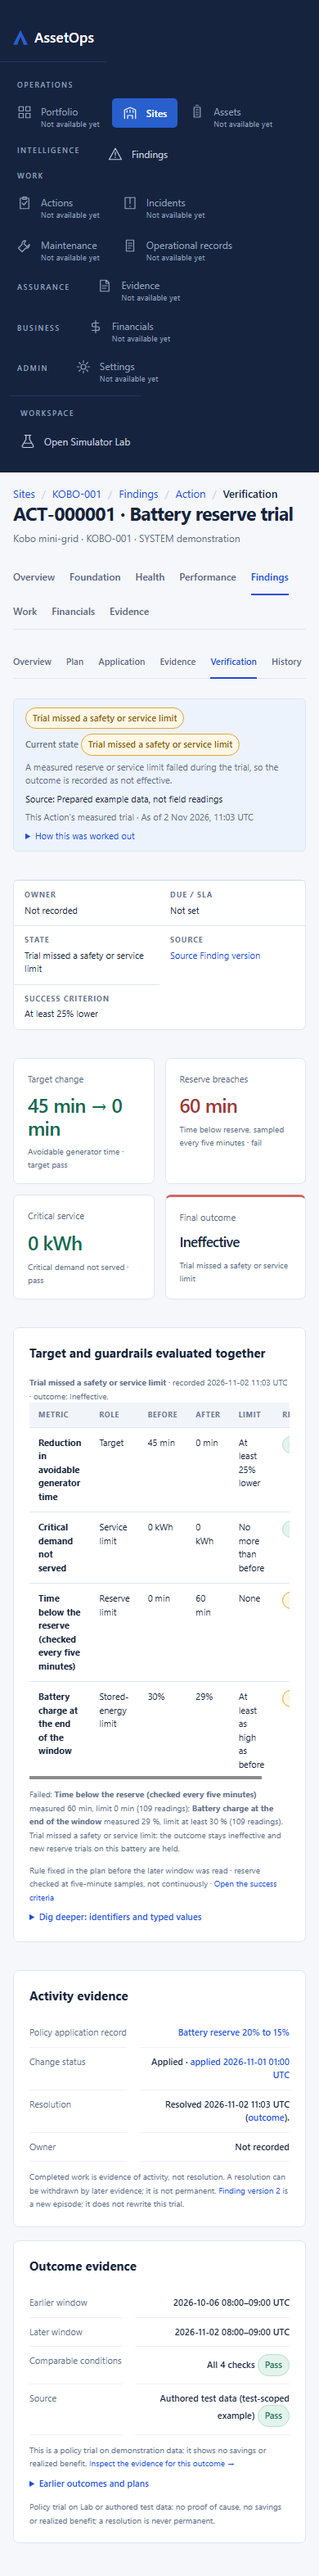
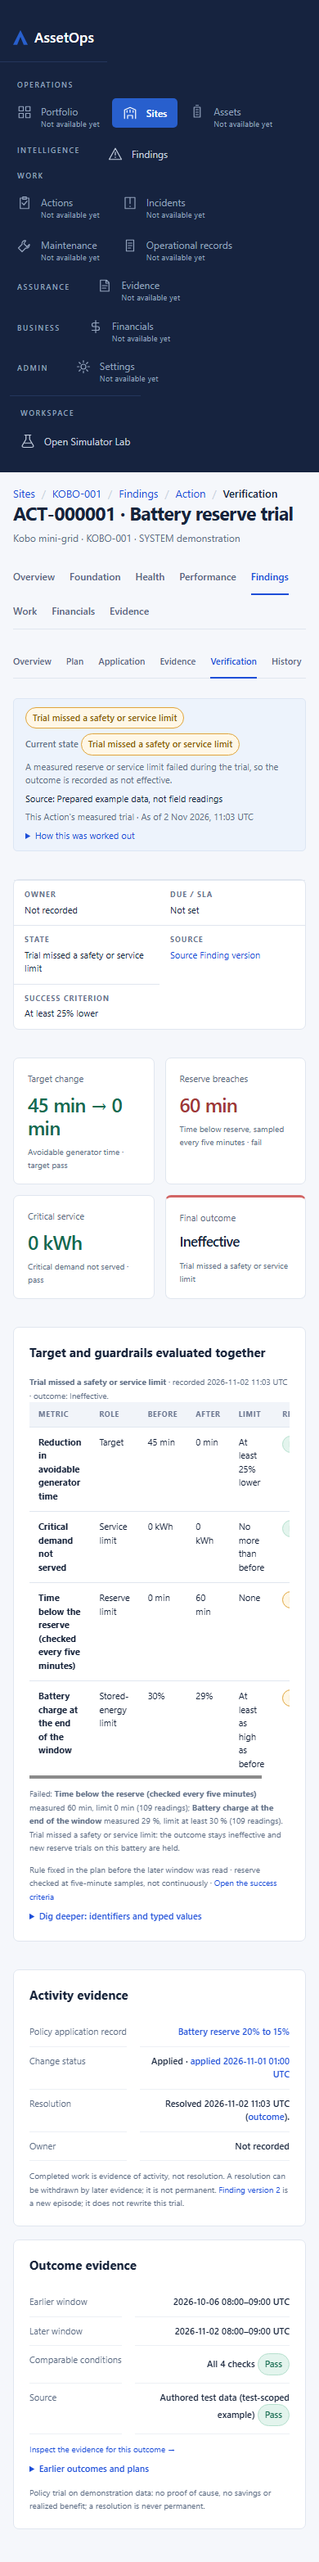
W1-F4 fix round 3: packet section, s602b recapture

diff --git a/.agent/W1-F4-evidence/s602b/index.html b/.agent/W1-F4-evidence/s602b/index.html
@@ -1,65 +1,65 @@
 <!doctype html><meta charset="utf-8"><title>W1 fidelity pairs</title><style>body{font:13px system-ui;margin:16px}.pair{display:grid;grid-template-columns:1fr 1fr;gap:12px;align-items:start}img{width:100%;border:1px solid #ccc}figure{margin:0}</style>
-<p>Revision 2045cfdd · captured 2026-10-17T15:06:42.985Z</p><section><h2>action-plan (pass) · 1440x1000</h2>
+<p>Revision 8d8d921c · captured 2026-10-17T15:54:08.950Z</p><section><h2>action-plan (pass) · 1440x1000</h2>
 <p>App: Success criteria<br>Mock: Success criteria</p>
-<div class="pair"><figure><figcaption>App http://localhost:5830/sites/KOBO-001/actions/0c4bd539-a1ed-42ea-bb0d-ad9b755ffe17/plan</figcaption><img src="action-plan-pass-1440-app.png"></figure>
+<div class="pair"><figure><figcaption>App http://localhost:5830/sites/KOBO-001/actions/b19c1545-aaba-48a8-a685-f2eb2ebea523/plan</figcaption><img src="action-plan-pass-1440-app.png"></figure>
 <figure><figcaption>Mock #/action-plan</figcaption><img src="action-plan-pass-1440-mock.png"></figure></div></section>
 <section><h2>action-plan (pass) · 390x900</h2>
 <p>App: Success criteria<br>Mock: Success criteria</p>
-<div class="pair"><figure><figcaption>App http://localhost:5830/sites/KOBO-001/actions/0c4bd539-a1ed-42ea-bb0d-ad9b755ffe17/plan</figcaption><img src="action-plan-pass-390-app.png"></figure>
+<div class="pair"><figure><figcaption>App http://localhost:5830/sites/KOBO-001/actions/b19c1545-aaba-48a8-a685-f2eb2ebea523/plan</figcaption><img src="action-plan-pass-390-app.png"></figure>
 <figure><figcaption>Mock #/action-plan</figcaption><img src="action-plan-pass-390-mock.png"></figure></div></section>
 <section><h2>action-plan (guardrail) · 1440x1000</h2>
 <p>App: Success criteria<br>Mock: Success criteria</p>
-<div class="pair"><figure><figcaption>App http://localhost:5831/sites/KOBO-001/actions/3477e311-0fe7-463e-9df5-d7e57832e7bb/plan</figcaption><img src="action-plan-guardrail-1440-app.png"></figure>
+<div class="pair"><figure><figcaption>App http://localhost:5831/sites/KOBO-001/actions/82621b3c-7fcc-422f-a5fa-cd4c2f5ba919/plan</figcaption><img src="action-plan-guardrail-1440-app.png"></figure>
 <figure><figcaption>Mock #/action-plan</figcaption><img src="action-plan-guardrail-1440-mock.png"></figure></div></section>
 <section><h2>action-plan (guardrail) · 390x900</h2>
 <p>App: Success criteria<br>Mock: Success criteria</p>
-<div class="pair"><figure><figcaption>App http://localhost:5831/sites/KOBO-001/actions/3477e311-0fe7-463e-9df5-d7e57832e7bb/plan</figcaption><img src="action-plan-guardrail-390-app.png"></figure>
+<div class="pair"><figure><figcaption>App http://localhost:5831/sites/KOBO-001/actions/82621b3c-7fcc-422f-a5fa-cd4c2f5ba919/plan</figcaption><img src="action-plan-guardrail-390-app.png"></figure>
 <figure><figcaption>Mock #/action-plan</figcaption><img src="action-plan-guardrail-390-mock.png"></figure></div></section>
 <section><h2>action-evidence (pass) · 1440x1000</h2>
 <p>App: Evidence requirements<br>Mock: Evidence requirements</p>
-<div class="pair"><figure><figcaption>App http://localhost:5830/sites/KOBO-001/actions/0c4bd539-a1ed-42ea-bb0d-ad9b755ffe17/evidence</figcaption><img src="action-evidence-pass-1440-app.png"></figure>
+<div class="pair"><figure><figcaption>App http://localhost:5830/sites/KOBO-001/actions/b19c1545-aaba-48a8-a685-f2eb2ebea523/evidence</figcaption><img src="action-evidence-pass-1440-app.png"></figure>
 <figure><figcaption>Mock #/action-evidence</figcaption><img src="action-evidence-pass-1440-mock.png"></figure></div></section>
 <section><h2>action-evidence (pass) · 390x900</h2>
 <p>App: Evidence requirements<br>Mock: Evidence requirements</p>
-<div class="pair"><figure><figcaption>App http://localhost:5830/sites/KOBO-001/actions/0c4bd539-a1ed-42ea-bb0d-ad9b755ffe17/evidence</figcaption><img src="action-evidence-pass-390-app.png"></figure>
+<div class="pair"><figure><figcaption>App http://localhost:5830/sites/KOBO-001/actions/b19c1545-aaba-48a8-a685-f2eb2ebea523/evidence</figcaption><img src="action-evidence-pass-390-app.png"></figure>
 <figure><figcaption>Mock #/action-evidence</figcaption><img src="action-evidence-pass-390-mock.png"></figure></div></section>
 <section><h2>action-evidence (guardrail) · 1440x1000</h2>
 <p>App: Evidence requirements<br>Mock: Evidence requirements</p>
-<div class="pair"><figure><figcaption>App http://localhost:5831/sites/KOBO-001/actions/3477e311-0fe7-463e-9df5-d7e57832e7bb/evidence</figcaption><img src="action-evidence-guardrail-1440-app.png"></figure>
+<div class="pair"><figure><figcaption>App http://localhost:5831/sites/KOBO-001/actions/82621b3c-7fcc-422f-a5fa-cd4c2f5ba919/evidence</figcaption><img src="action-evidence-guardrail-1440-app.png"></figure>
 <figure><figcaption>Mock #/action-evidence</figcaption><img src="action-evidence-guardrail-1440-mock.png"></figure></div></section>
 <section><h2>action-evidence (guardrail) · 390x900</h2>
 <p>App: Evidence requirements<br>Mock: Evidence requirements</p>
-<div class="pair"><figure><figcaption>App http://localhost:5831/sites/KOBO-001/actions/3477e311-0fe7-463e-9df5-d7e57832e7bb/evidence</figcaption><img src="action-evidence-guardrail-390-app.png"></figure>
+<div class="pair"><figure><figcaption>App http://localhost:5831/sites/KOBO-001/actions/82621b3c-7fcc-422f-a5fa-cd4c2f5ba919/evidence</figcaption><img src="action-evidence-guardrail-390-app.png"></figure>
 <figure><figcaption>Mock #/action-evidence</figcaption><img src="action-evidence-guardrail-390-mock.png"></figure></div></section>
 <section><h2>verification (pass) · 1440x1000</h2>
 <p>App: Target and guardrails evaluated together | Activity evidence | Outcome evidence<br>Mock: Target and guardrails evaluated together | Activity evidence | Outcome evidence</p>
-<div class="pair"><figure><figcaption>App http://localhost:5830/sites/KOBO-001/actions/0c4bd539-a1ed-42ea-bb0d-ad9b755ffe17/verification</figcaption><img src="verification-pass-1440-app.png"></figure>
+<div class="pair"><figure><figcaption>App http://localhost:5830/sites/KOBO-001/actions/b19c1545-aaba-48a8-a685-f2eb2ebea523/verification</figcaption><img src="verification-pass-1440-app.png"></figure>
 <figure><figcaption>Mock #/verification</figcaption><img src="verification-pass-1440-mock.png"></figure></div></section>
 <section><h2>verification (pass) · 390x900</h2>
 <p>App: Target and guardrails evaluated together | Activity evidence | Outcome evidence<br>Mock: Target and guardrails evaluated together | Activity evidence | Outcome evidence</p>
-<div class="pair"><figure><figcaption>App http://localhost:5830/sites/KOBO-001/actions/0c4bd539-a1ed-42ea-bb0d-ad9b755ffe17/verification</figcaption><img src="verification-pass-390-app.png"></figure>
+<div class="pair"><figure><figcaption>App http://localhost:5830/sites/KOBO-001/actions/b19c1545-aaba-48a8-a685-f2eb2ebea523/verification</figcaption><img src="verification-pass-390-app.png"></figure>
 <figure><figcaption>Mock #/verification</figcaption><img src="verification-pass-390-mock.png"></figure></div></section>
 <section><h2>verification (historical) · 1440x1000</h2>
 <p>App: Target and guardrails evaluated together | Activity evidence | Outcome evidence<br>Mock: Target and guardrails evaluated together | Activity evidence | Outcome evidence</p>
-<div class="pair"><figure><figcaption>App http://localhost:5830/sites/KOBO-001/actions/0c4bd539-a1ed-42ea-bb0d-ad9b755ffe17/verification?outcome_id=869ee819-7507-41f6-b7f9-49187226ea65</figcaption><img src="verification-historical-1440-app.png"></figure>
+<div class="pair"><figure><figcaption>App http://localhost:5830/sites/KOBO-001/actions/b19c1545-aaba-48a8-a685-f2eb2ebea523/verification?outcome_id=d6b7fd34-d5d7-4105-9f9f-9f4c54832448</figcaption><img src="verification-historical-1440-app.png"></figure>
 <figure><figcaption>Mock #/verification</figcaption><img src="verification-historical-1440-mock.png"></figure></div></section>
 <section><h2>verification (historical) · 390x900</h2>
 <p>App: Target and guardrails evaluated together | Activity evidence | Outcome evidence<br>Mock: Target and guardrails evaluated together | Activity evidence | Outcome evidence</p>
-<div class="pair"><figure><figcaption>App http://localhost:5830/sites/KOBO-001/actions/0c4bd539-a1ed-42ea-bb0d-ad9b755ffe17/verification?outcome_id=869ee819-7507-41f6-b7f9-49187226ea65</figcaption><img src="verification-historical-390-app.png"></figure>
+<div class="pair"><figure><figcaption>App http://localhost:5830/sites/KOBO-001/actions/b19c1545-aaba-48a8-a685-f2eb2ebea523/verification?outcome_id=d6b7fd34-d5d7-4105-9f9f-9f4c54832448</figcaption><img src="verification-historical-390-app.png"></figure>
 <figure><figcaption>Mock #/verification</figcaption><img src="verification-historical-390-mock.png"></figure></div></section>
 <section><h2>verification (guardrail) · 1440x1000</h2>
 <p>App: Target and guardrails evaluated together | Activity evidence | Outcome evidence<br>Mock: Target and guardrails evaluated together | Activity evidence | Outcome evidence</p>
-<div class="pair"><figure><figcaption>App http://localhost:5831/sites/KOBO-001/actions/3477e311-0fe7-463e-9df5-d7e57832e7bb/verification</figcaption><img src="verification-guardrail-1440-app.png"></figure>
+<div class="pair"><figure><figcaption>App http://localhost:5831/sites/KOBO-001/actions/82621b3c-7fcc-422f-a5fa-cd4c2f5ba919/verification</figcaption><img src="verification-guardrail-1440-app.png"></figure>
 <figure><figcaption>Mock #/verification</figcaption><img src="verification-guardrail-1440-mock.png"></figure></div></section>
 <section><h2>verification (guardrail) · 390x900</h2>
 <p>App: Target and guardrails evaluated together | Activity evidence | Outcome evidence<br>Mock: Target and guardrails evaluated together | Activity evidence | Outcome evidence</p>
-<div class="pair"><figure><figcaption>App http://localhost:5831/sites/KOBO-001/actions/3477e311-0fe7-463e-9df5-d7e57832e7bb/verification</figcaption><img src="verification-guardrail-390-app.png"></figure>
+<div class="pair"><figure><figcaption>App http://localhost:5831/sites/KOBO-001/actions/82621b3c-7fcc-422f-a5fa-cd4c2f5ba919/verification</figcaption><img src="verification-guardrail-390-app.png"></figure>
 <figure><figcaption>Mock #/verification</figcaption><img src="verification-guardrail-390-mock.png"></figure></div></section>
 <section><h2>recommendation (guardrail-hold) · 1440x1000</h2>
 <p>App: Proposed intervention | Declare success before evaluating | Evidence needed to verify<br>Mock: Proposed intervention | Declare success before evaluating | Evidence needed to verify</p>
-<div class="pair"><figure><figcaption>App http://localhost:5831/sites/KOBO-001/findings/ffeea44d-dc59-4fdd-80ea-39ac36226f6c/recommendation?revision_id=c2990acd-c3c7-424c-a37e-0b82baa79644</figcaption><img src="recommendation-guardrail-hold-1440-app.png"></figure>
+<div class="pair"><figure><figcaption>App http://localhost:5831/sites/KOBO-001/findings/b76030b0-9972-46fe-b084-54054eba4fb6/recommendation?revision_id=a7714fe4-2bff-4165-ab62-1a64bba6d1af</figcaption><img src="recommendation-guardrail-hold-1440-app.png"></figure>
 <figure><figcaption>Mock #/recommendation</figcaption><img src="recommendation-guardrail-hold-1440-mock.png"></figure></div></section>
 <section><h2>recommendation (guardrail-hold) · 390x900</h2>
 <p>App: Proposed intervention | Declare success before evaluating | Evidence needed to verify<br>Mock: Proposed intervention | Declare success before evaluating | Evidence needed to verify</p>
-<div class="pair"><figure><figcaption>App http://localhost:5831/sites/KOBO-001/findings/ffeea44d-dc59-4fdd-80ea-39ac36226f6c/recommendation?revision_id=c2990acd-c3c7-424c-a37e-0b82baa79644</figcaption><img src="recommendation-guardrail-hold-390-app.png"></figure>
+<div class="pair"><figure><figcaption>App http://localhost:5831/sites/KOBO-001/findings/b76030b0-9972-46fe-b084-54054eba4fb6/recommendation?revision_id=a7714fe4-2bff-4165-ab62-1a64bba6d1af</figcaption><img src="recommendation-guardrail-hold-390-app.png"></figure>
 <figure><figcaption>Mock #/recommendation</figcaption><img src="recommendation-guardrail-hold-390-mock.png"></figure></div></section>

diff --git a/.agent/W1-F4-actions-work-review-packet.md b/.agent/W1-F4-actions-work-review-packet.md
@@ -100,7 +100,7 @@ The earlier F4 fixtures had been left in place despite the earlier note (`asseto
 | No-plan wording repeated | One no-plan sentence | Kept; Plan and Evidence shrink as a side effect of the shared note-size link (Plan 1.28/1.37, Evidence 1.32/1.52) |
 | Trial notice at body size | Note-size trial notice | One sentence |
 
-Re-pointed assertions (same guarantee asserted where the content now lives, none weakened): `siteWorkActions` (six columns; scope header scoped to the list table), `siteActionVerification` (attempts counts read inside the disclosure, trial notice one sentence), Verification/Site Work structure tests.
+Re-pointed assertions (same guarantee asserted where the content now lives, none weakened): `siteWorkActions` (six columns; scope header scoped to the list table), Verification/Site Work structure tests.
 
 ### Current heights (1440, revision `2045cfdd`, panel px; app / mock = ratio)
 | Screen:case | App | Mock | Ratio |
@@ -119,3 +119,10 @@ Re-pointed assertions (same guarantee asserted where the content now lives, none
 ### Round-2 known deviations
 - Not all panels reached 1.3x: verification pair 1.40-1.47, Evidence guardrail 1.52, Plan guardrail 1.37, Site Work active 1.36. All are at or below their pre-round-2 ratios; further trimming would drop real rows (guardrail limits, attempts summary) the mock does not draw.
 - The Evidence guardrail 1.52 was not in the round-2 growth list; it carries the failed-limit rows the mock lacks.
+
+## Fix round 3 (re-review RETURN: 1 Medium, 2 Low)
+- **M1 (Success criterion cell):** `SiteActionVerification.tsx` now shows "At least 25% lower" when an outcome target metric or a plan was read; "Not available" when a plan id is known but neither was read; "No success criteria recorded" only when the Action has no plan. New test in `w1f4VerificationStructure.test.tsx`: a page opened on `?plan_revision_id=` with no outcome yet reads "At least 25% lower" in the summary row.
+- **Low 2:** Outcome evidence with a demonstration source now states the trial limit once, as one line ("Policy trial on demonstration data: no proof of cause, no savings or realized benefit; a resolution is never permanent.") carrying both `data-product-outcome-demonstration` and `data-verification-trial-label`; otherwise the usual `TrialNotice` shows.
+- **Low 3 (correction):** `siteActionVerification.test.tsx` was NOT re-pointed in round 2; it has no diff. Its regexes still match. The round-2 table entry is corrected above. No assertion in any file was weakened in round 3.
+- **Checks:** `tsc --noEmit` exit 0; focused (w1f4VerificationStructure, siteActionVerification, productStatus) 67 passed; full `npm.cmd test` 80 files, 2020 passed, 0 failed (216 s); `tools/check-all.ps1` all 10 guards passed.
+- **Capture:** `s602b` recaptured at 1440 and 390 (96/96; the first two runs had one app-load fail each, rerun on warmed servers passed). Fixtures prepared on API 9430-9431, web 5830-5831, then dropped, servers stopped; only `var/sites` remains. Backend not run (frontend-only).
